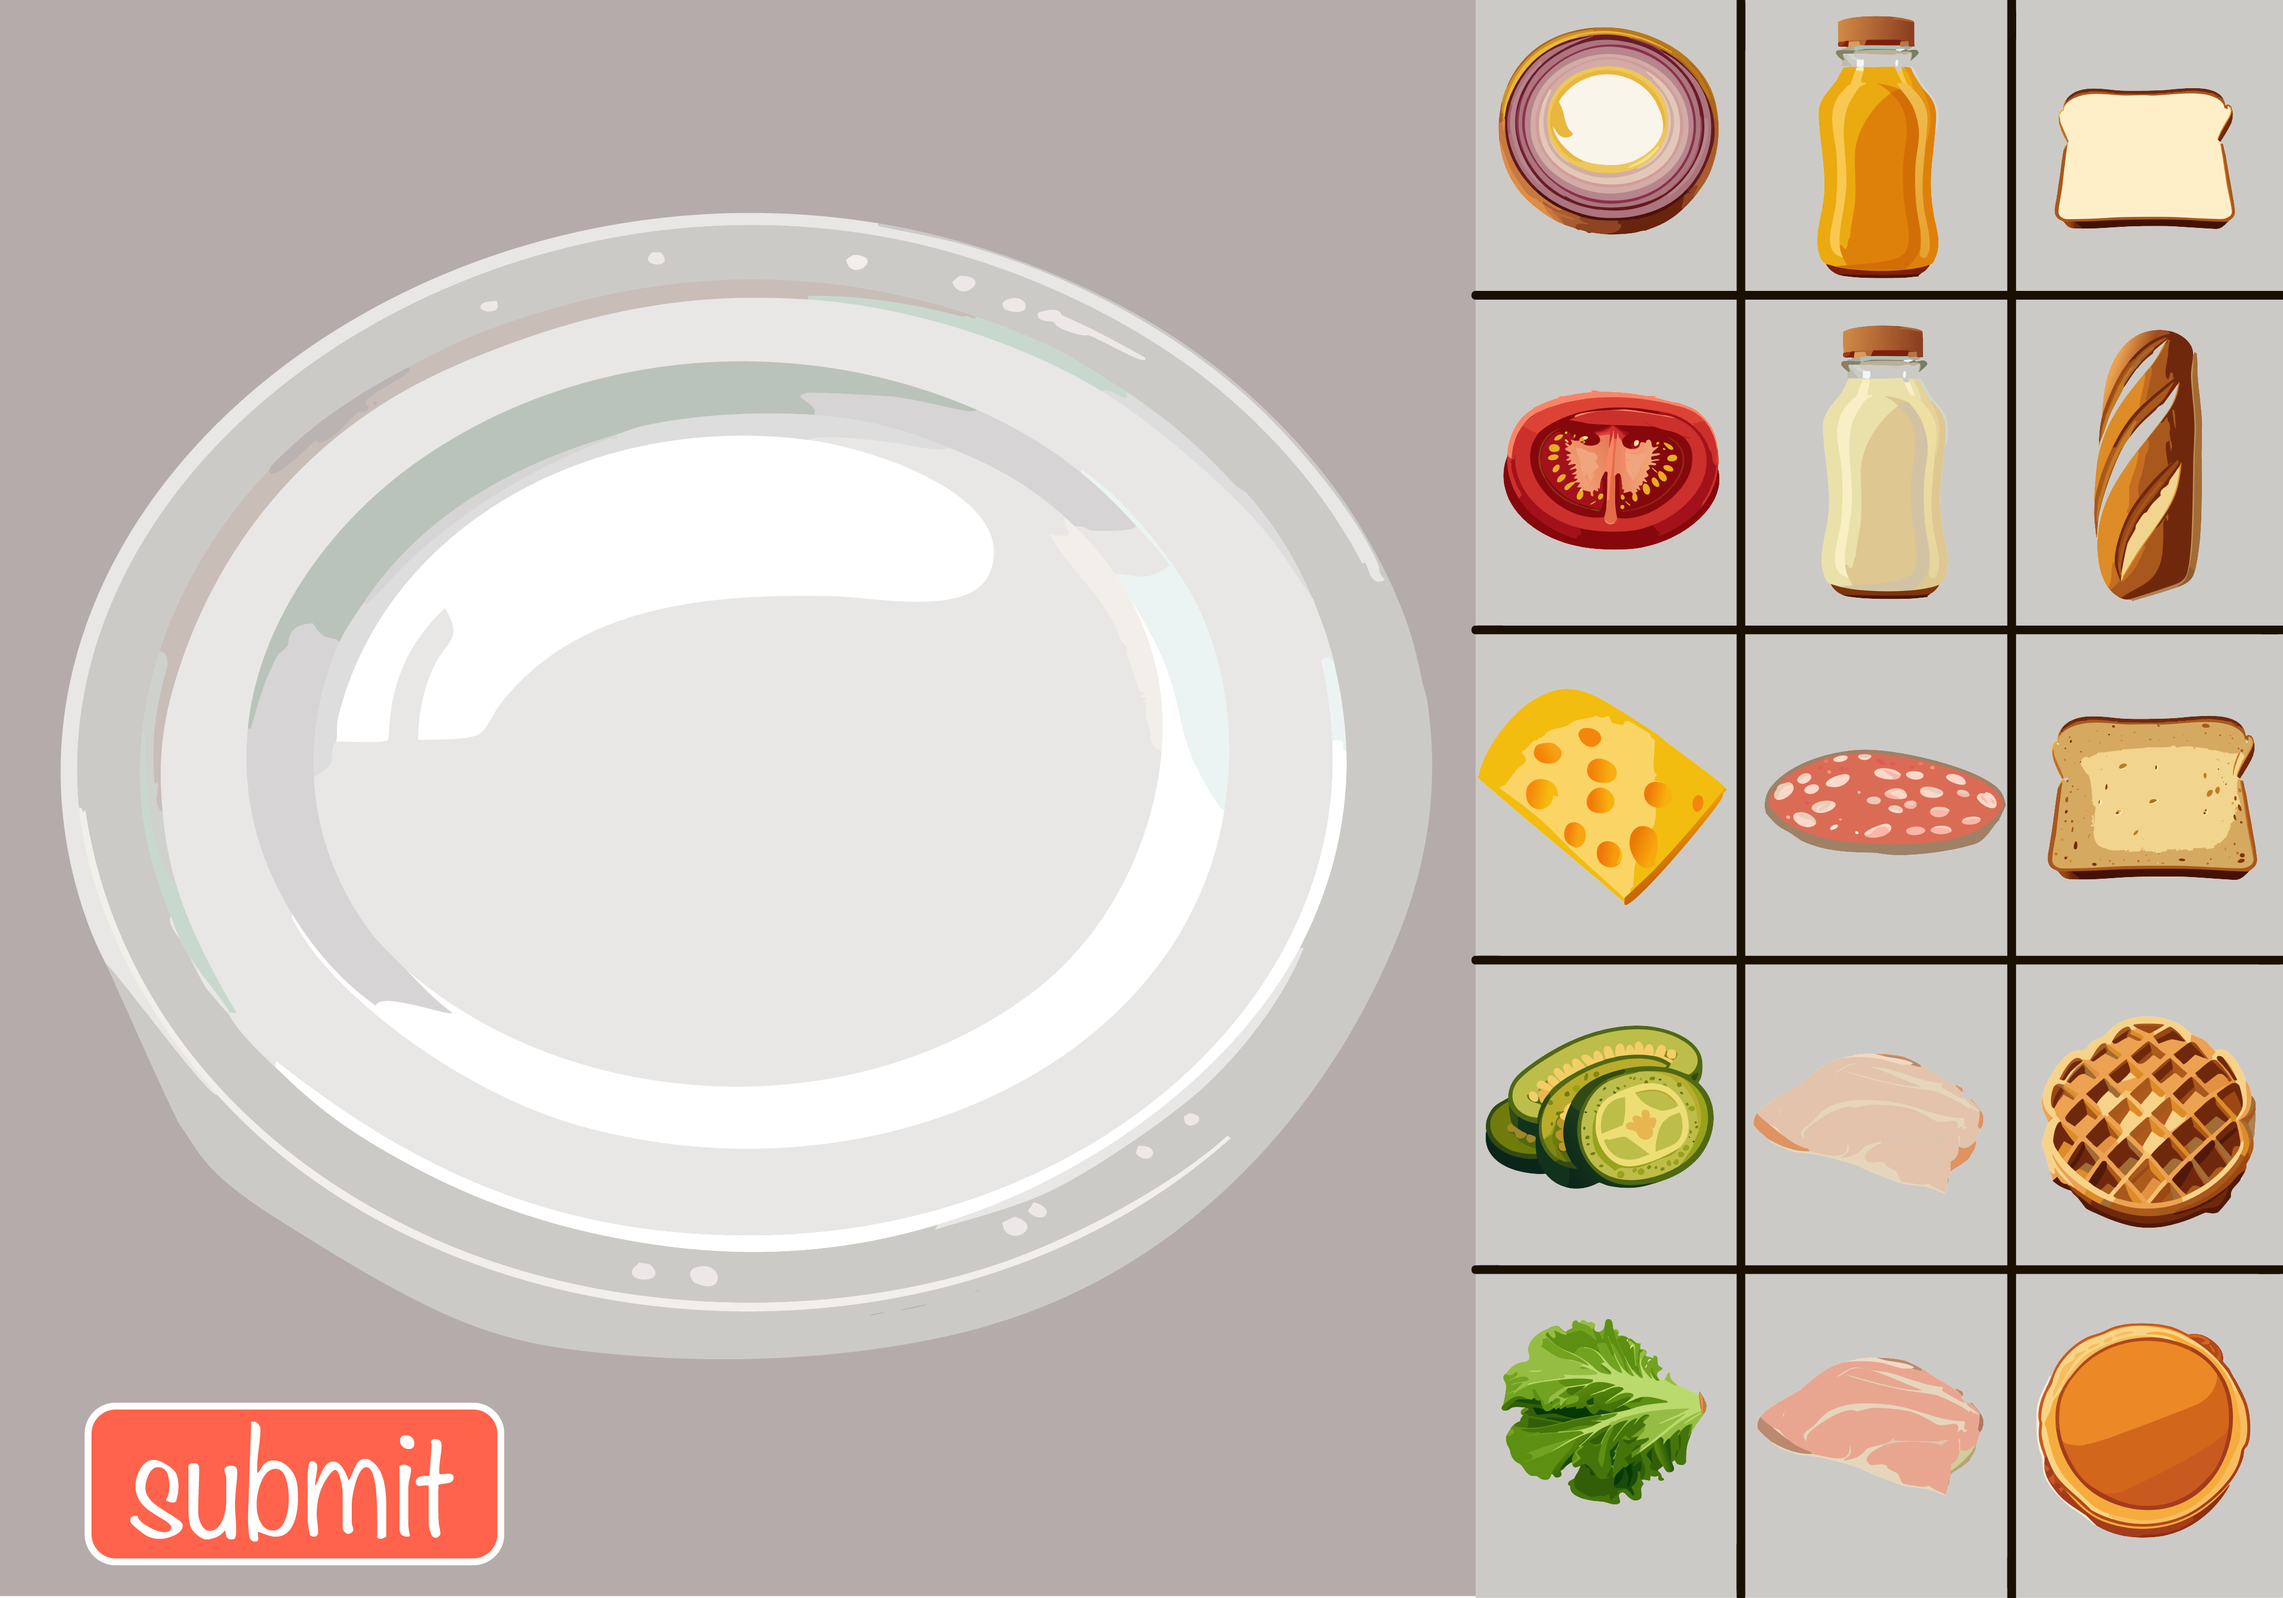
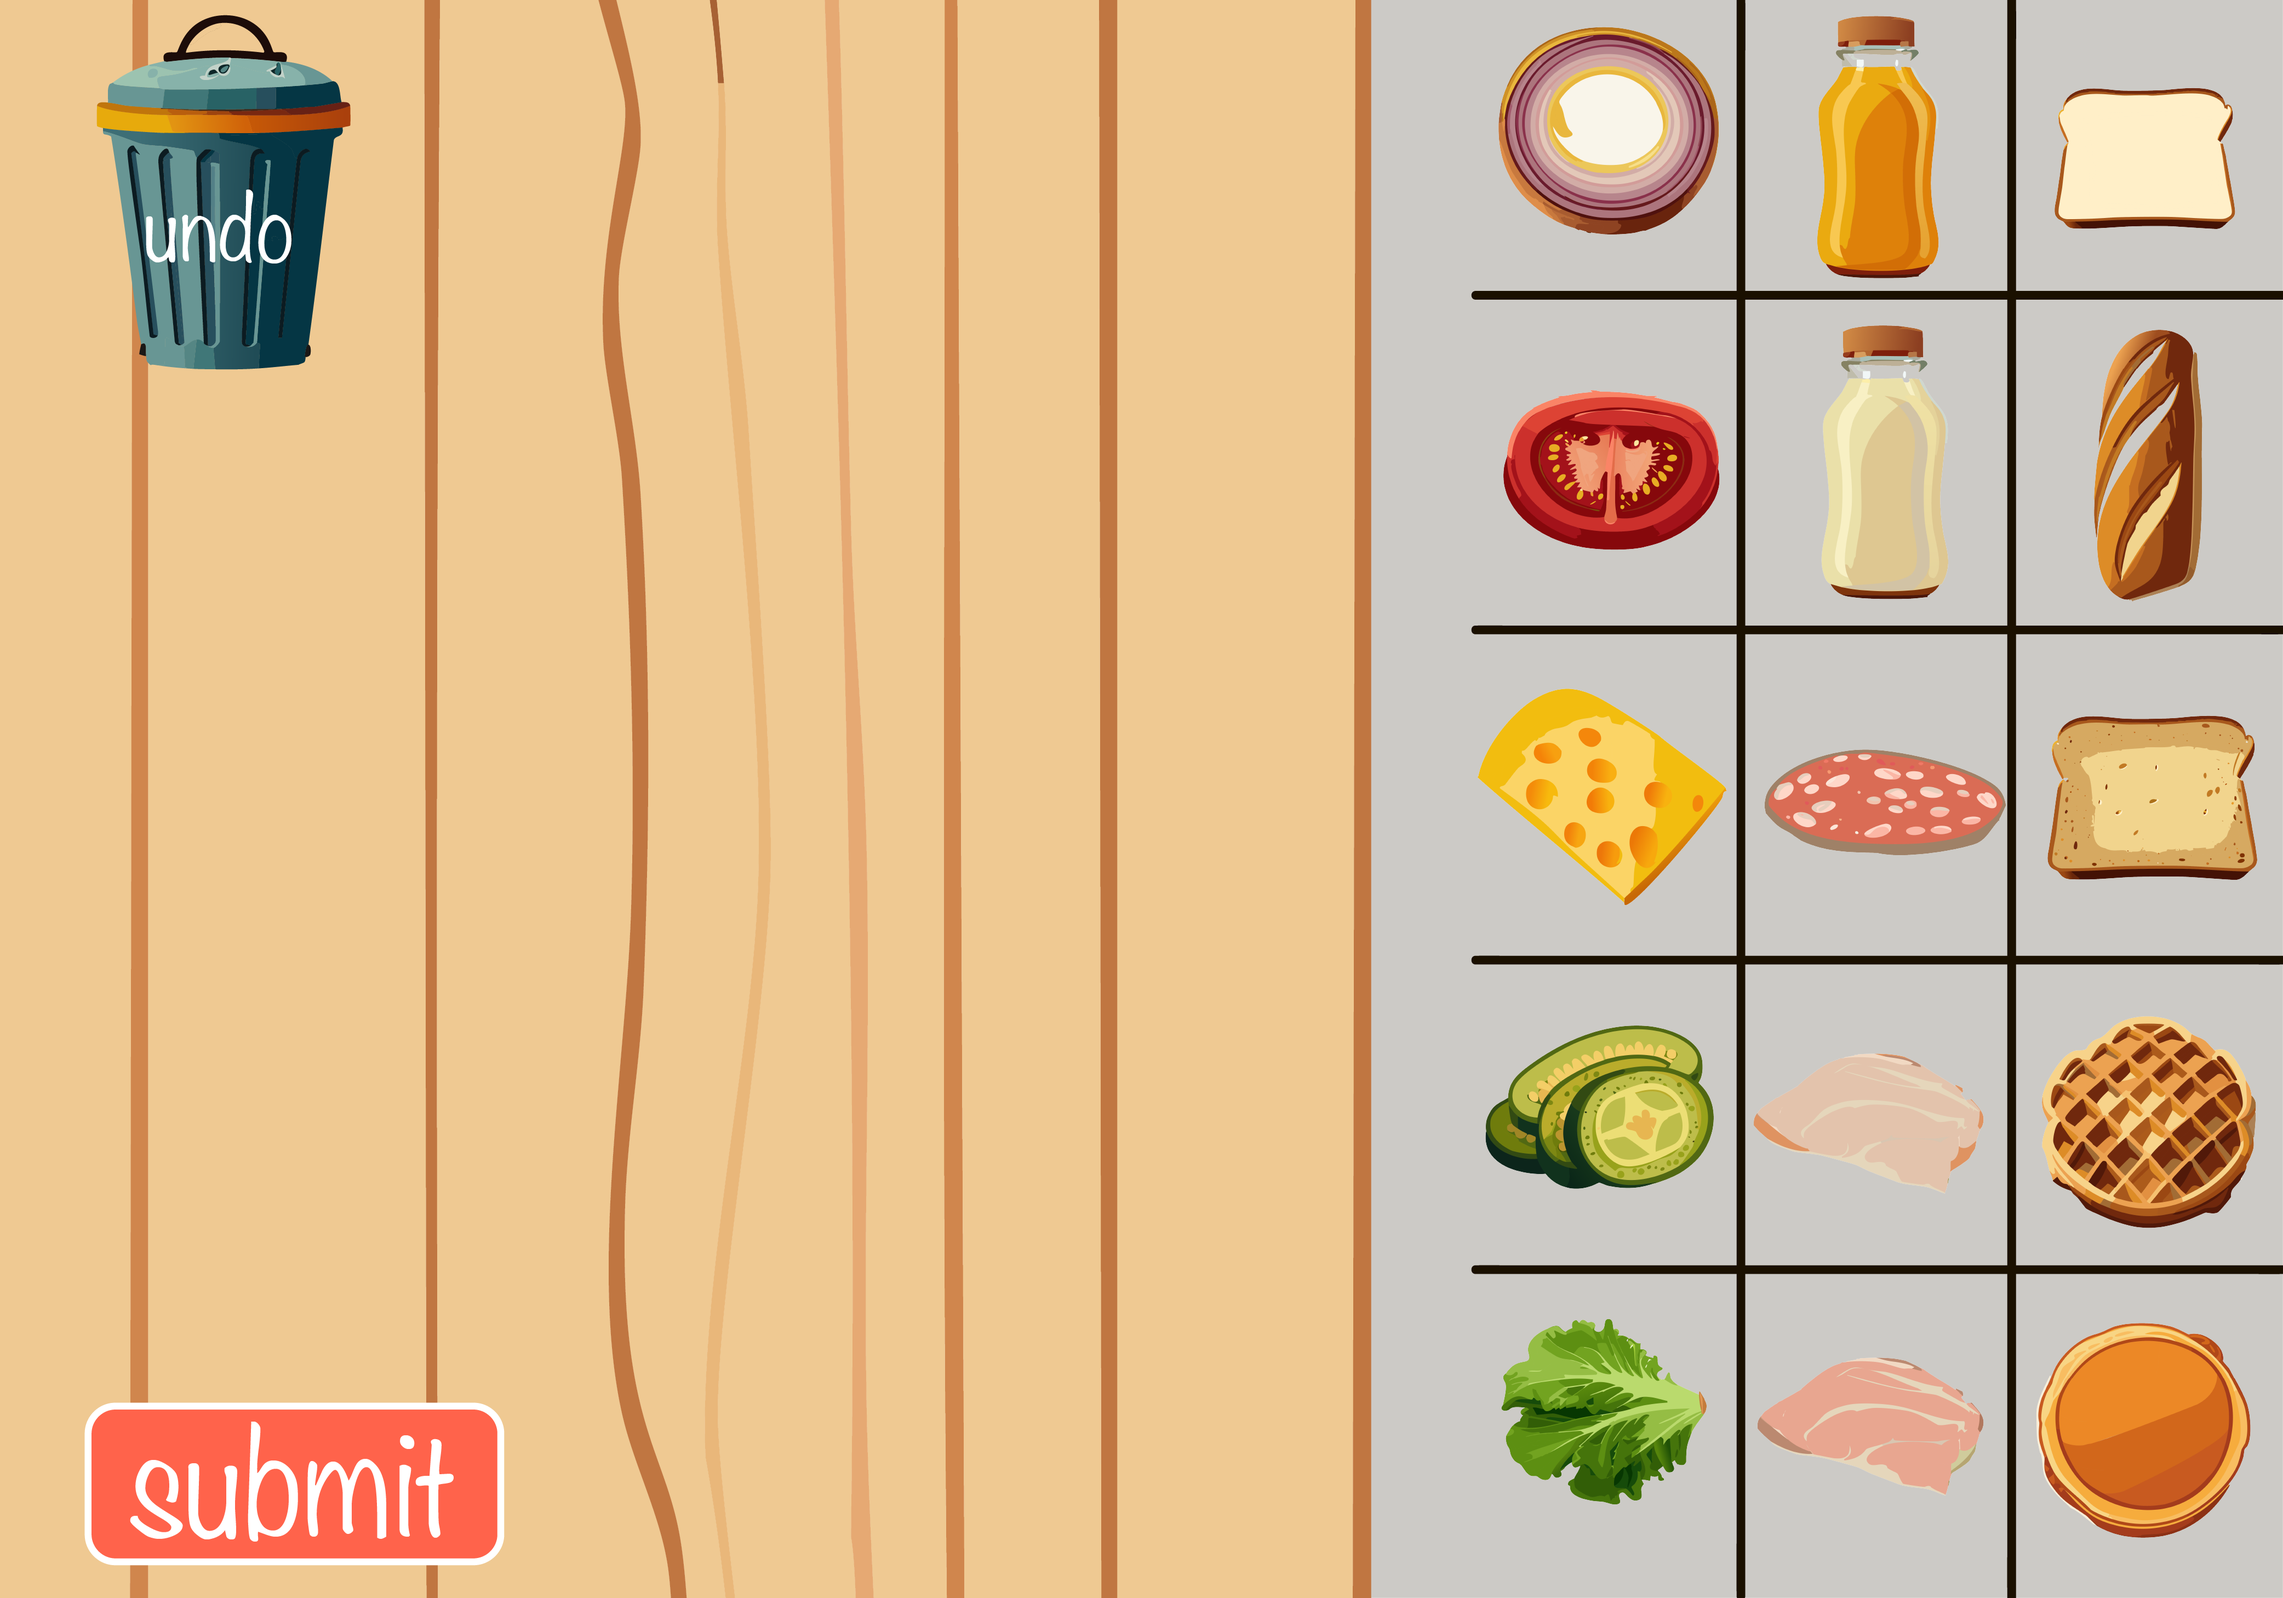
all but last button

diff --git a/src/com/company/Main.java b/src/com/company/Main.java
@@ -362,7 +362,23 @@ public class Main implements Runnable, KeyListener, MouseListener {
                 finalScreen = true;
                 gordonMessage = gordonMessage(ingredientsInSandwich);
             }
+            if (x < 125 && x > 25 && y < 150 && y > 25 && ingredientsInSandwich.size()>0) {
+                ingredientsInSandwich.remove(ingredientsInSandwich.size() - 1);
+            }
+
         }
+        if (finalScreen) {
+            int x = e.getX();
+            int y = e.getY();
+            System.out.println(x+" "+y);
+            if(x < 200 && x > 30 && y < 630 && y > 580){
+                startScreen = true;
+                finalScreen = false;
+                gordonMessage = "";
+                ingredientsInSandwich = new ArrayList<>();
+            }
+        }
+
     }
 
     @Override
